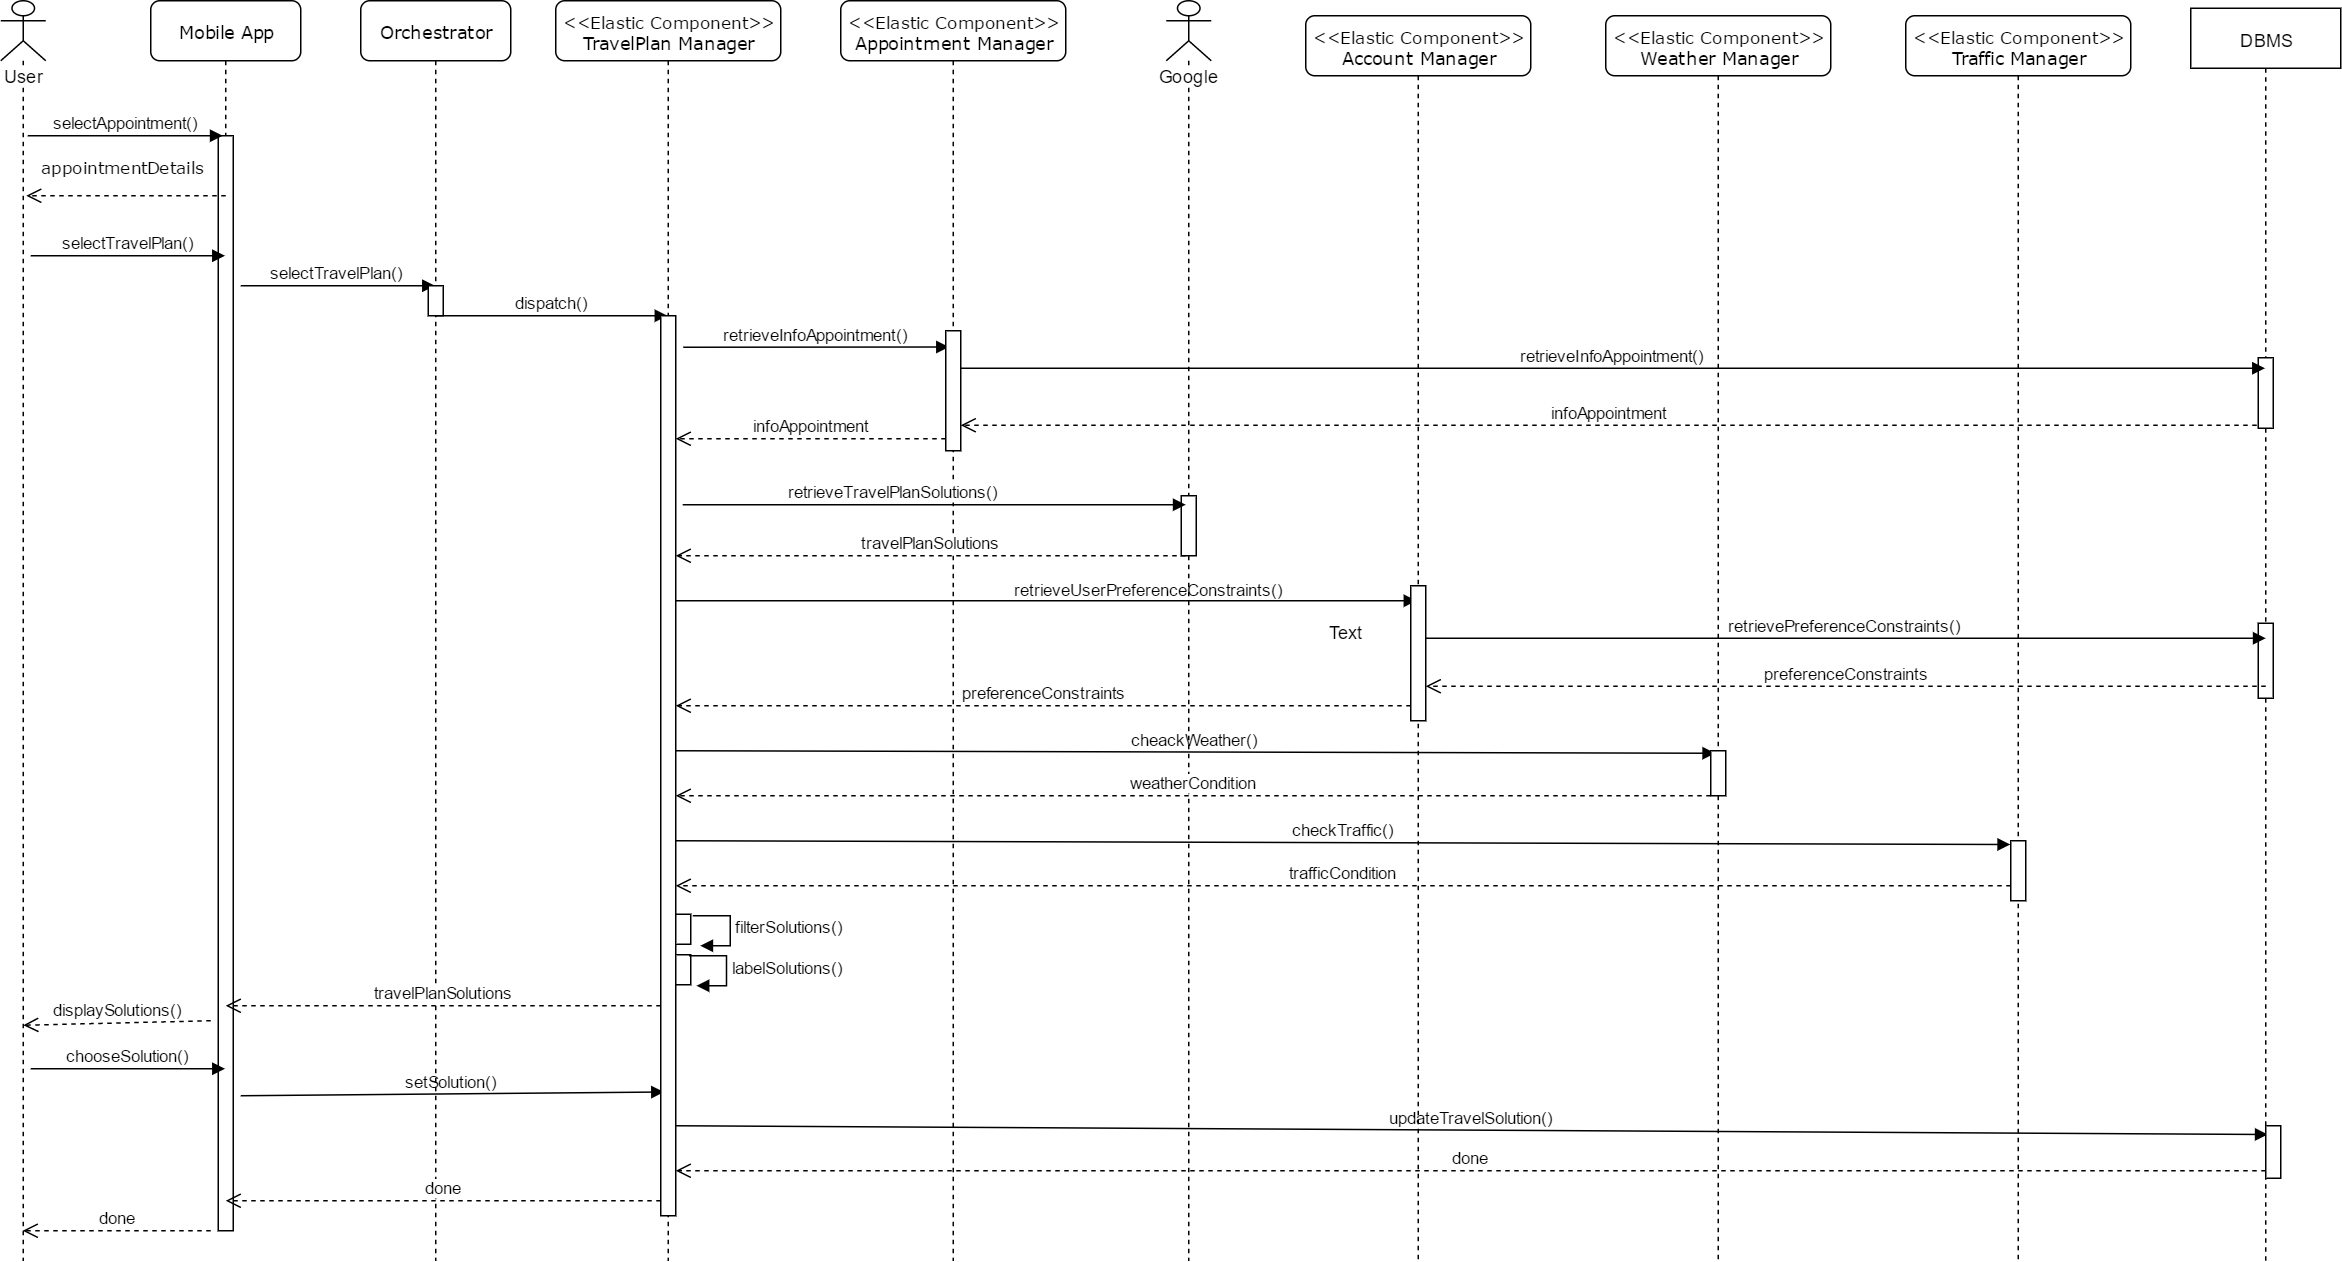
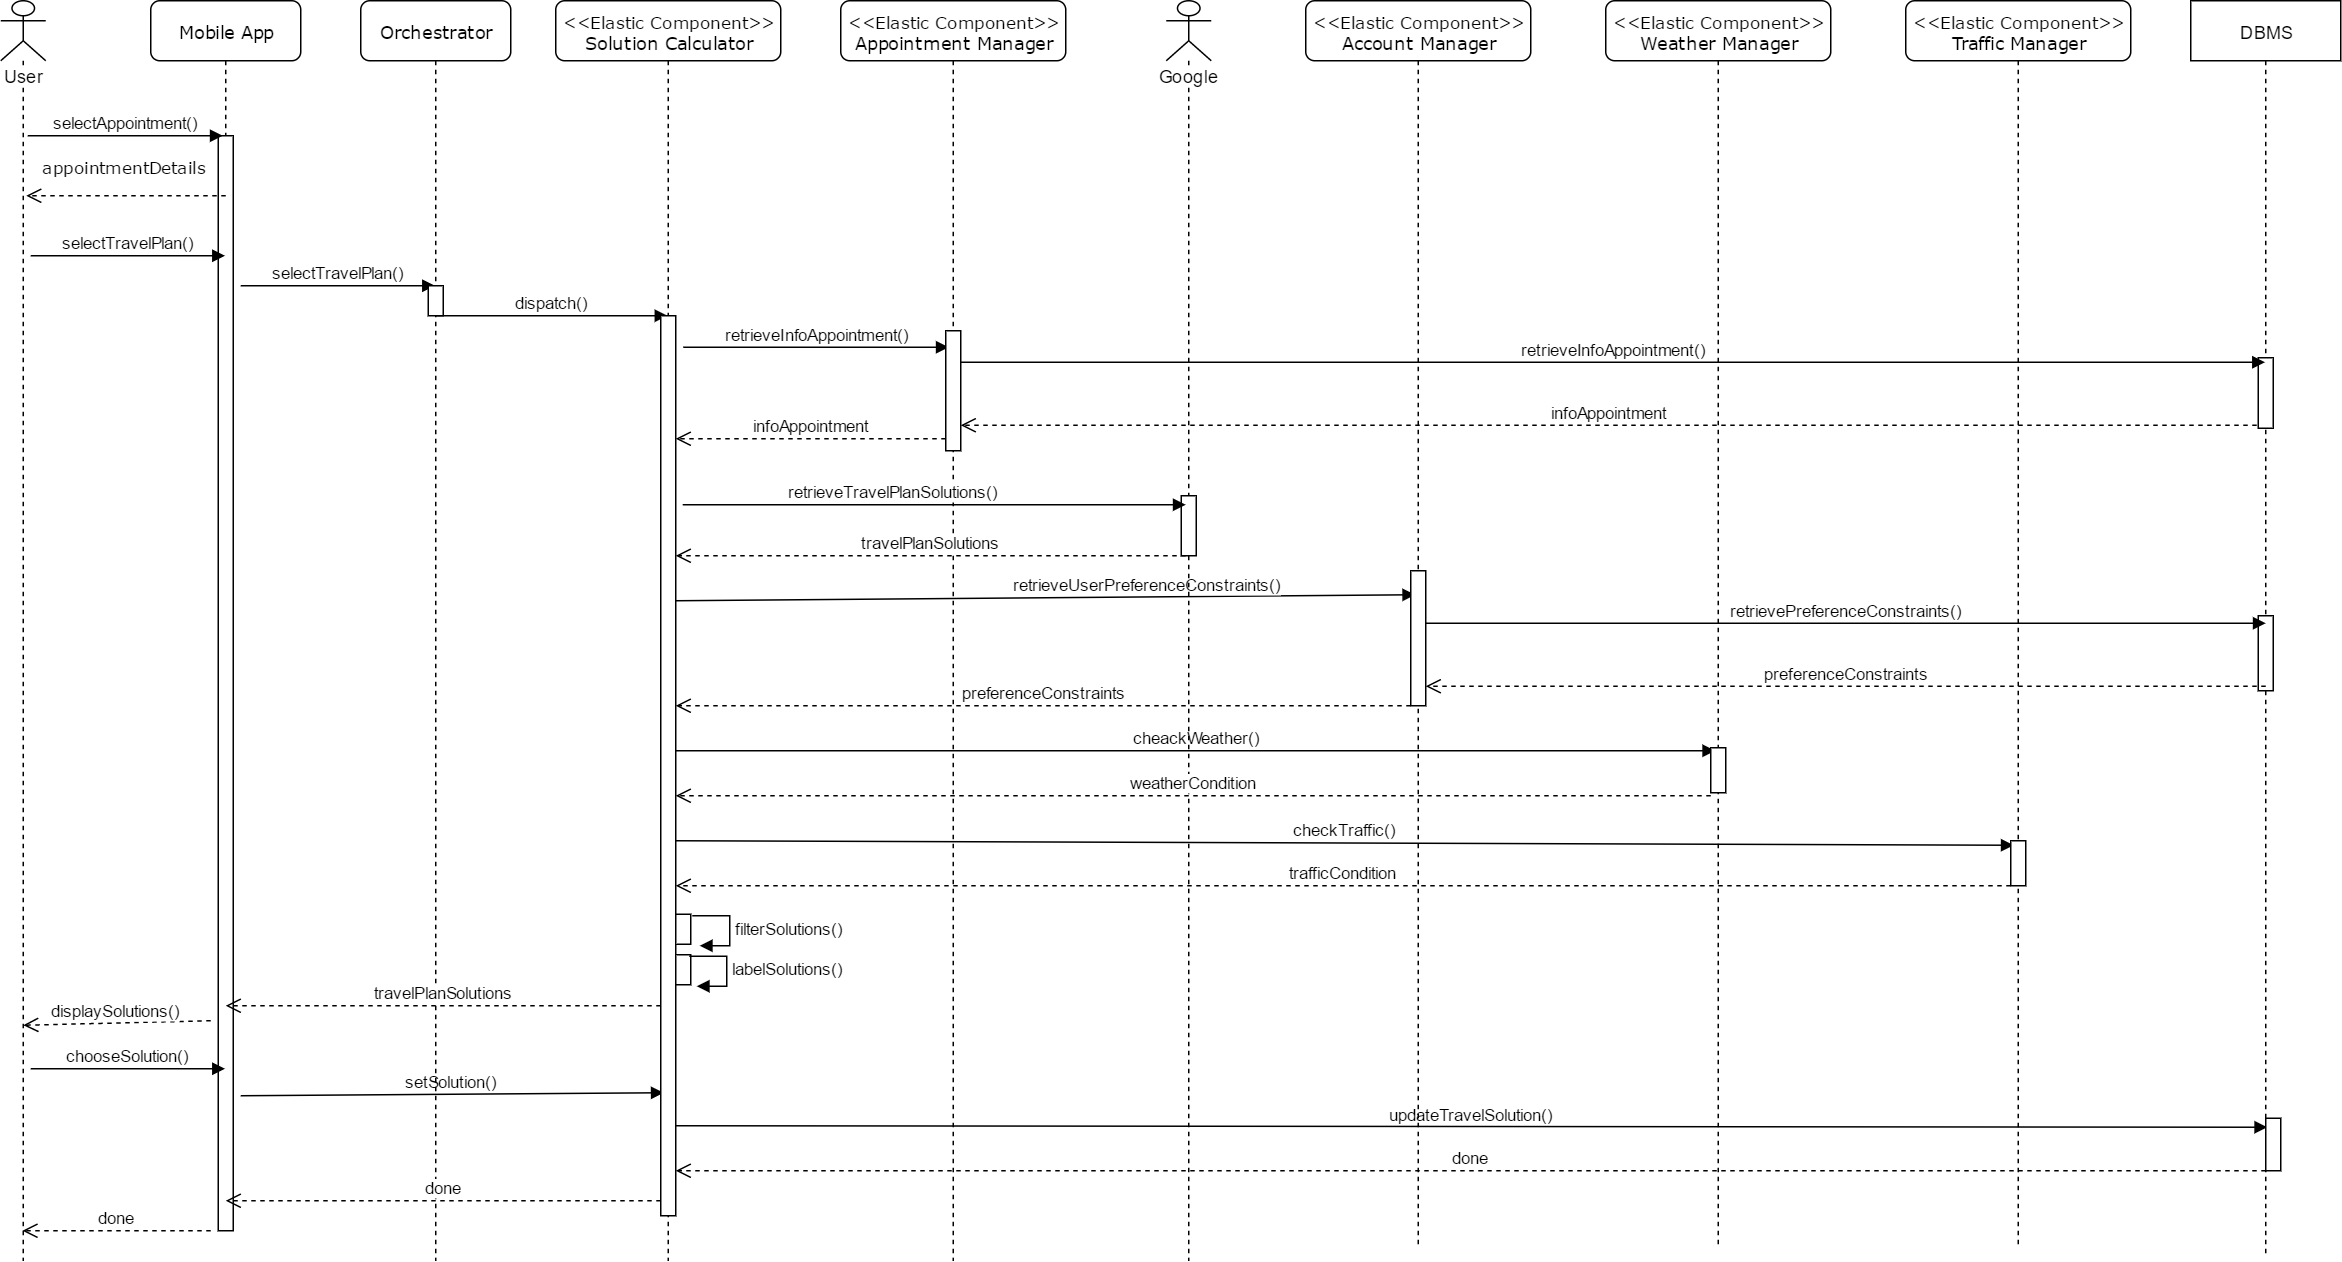
Substitute TravelPlan Manager with Solution Calculator and eliminate Notification Manager from High Level Architecture

diff --git a/DD/latex/sections/algorithmDesign.tex b/DD/latex/sections/algorithmDesign.tex
@@ -21,12 +21,12 @@
 
 \subsection{Solution Calculator - How it works}
 		Here is illustrated the procedure by which the S2B provides the user with the travel solutions for the selected appointment.
-		As we \hyperref[sect:Select TravelPlan Solution]{previously described} the TravelPlan Manager takes care of handling the three-step  articulated process: recovery of feasible travelPlanSolutions and other useful information, filtering and labeling.
+		As we \hyperref[sect:Select TravelPlan Solution]{previously described} the Solution Calculator takes care of handling the three-step  articulated process: recovery of feasible travelPlanSolutions and other useful information, filtering and labeling.
 	\subparagraph{recovery of feasible travelPlanSolutions and other useful information:}
 	
 		- Solution Calculator, through Appointment Manager, retrieves appointment information (departure location, destination, time, presence of passengers, baggage, ..);\newline
 		
-		- based on this information, TravelPlan Manager interface with Google, which provides it with a list of possible travel solutions - travelPlanSolutions;\newline
+		- based on this information, Solution Calculator interface with Google, which provides it with a list of possible travel solutions - travelPlanSolutions;\newline
 		
 		- each TravelPLan solution consists of more Ride (each with its own TravelMean, distance, time);\newline
 		
@@ -66,7 +66,7 @@
 	The maximum possible EcoScore is 0; \newline
 	
 	PseudoCode: \newline
-	calculateEcoScore( TravelPlan tp)&{\newline
+	calculateEcoScore( TravelPlan tp){\newline
 		score=0;\newline
 		for each Ride r in tp{\newline
 			score = score - r.travelMean.penalty * r.distance\newline
